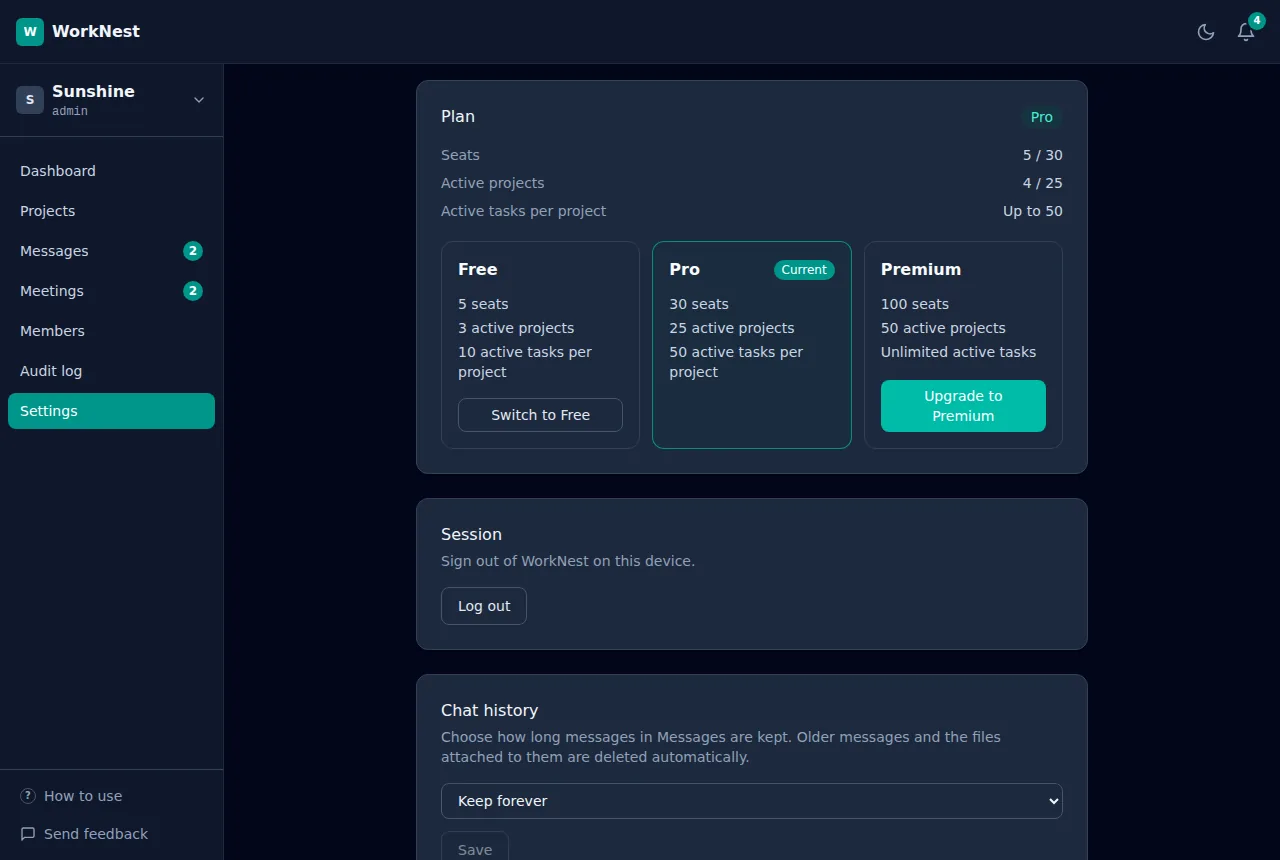
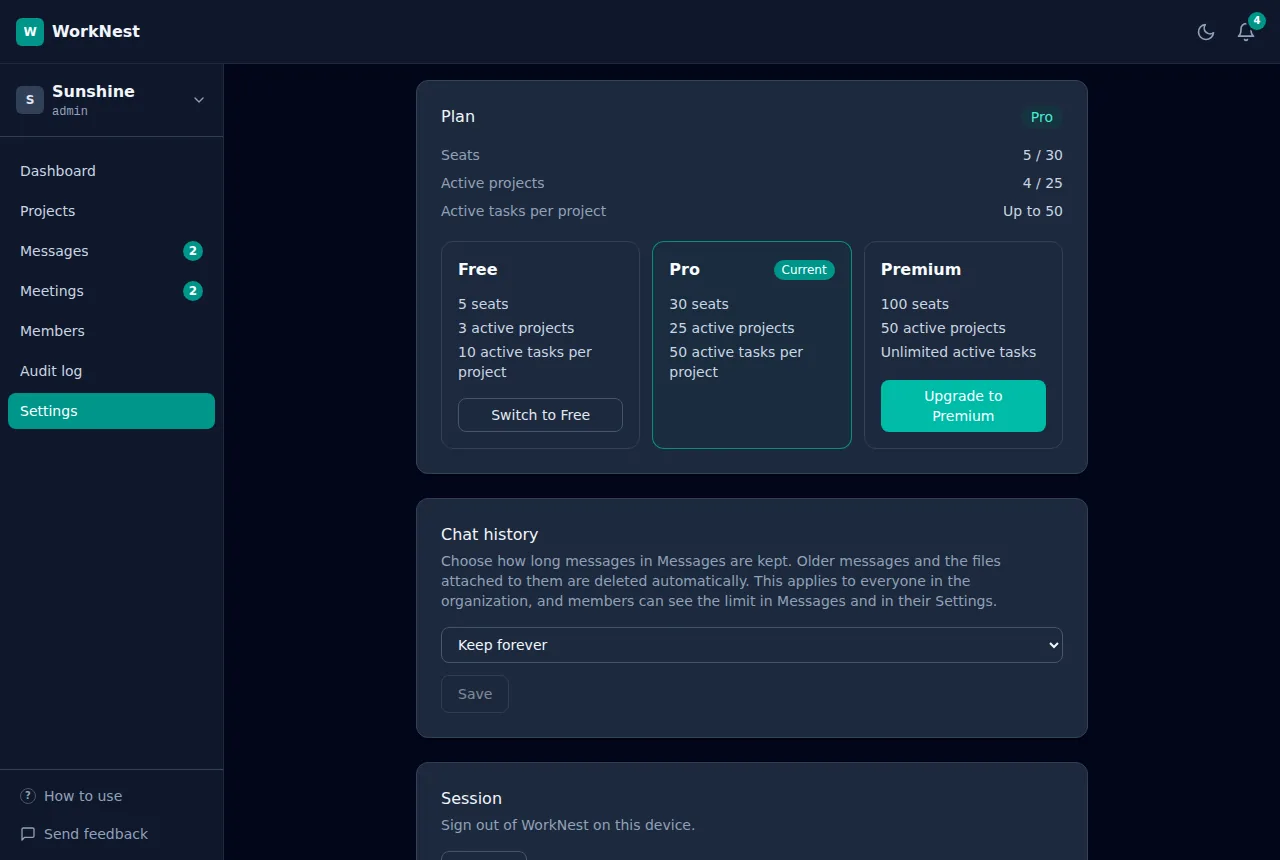
Show every member how long chat history is kept, and put Chat history above Session in Settings
Members now see a read-only Chat history card in Settings and a short note at the bottom of the chat list when an admin has set a limit. The admin card says the choice applies to everyone. Chat history now sits above Session. The plans screenshot was retaken and the guide and README mention the visible limit.

Changed region(s): [[0.3125, 0.6047, 0.875, 0.786], [0.3125, 0.8163, 0.875, 0.9977]]

diff --git a/web/src/features/settings/ChatRetentionCard.tsx b/web/src/features/settings/ChatRetentionCard.tsx
@@ -7,6 +7,7 @@ import { inputControlStyles } from "@/components/ui/Field";
 import { parseApiError } from "@/lib/apiError";
 import { useUpdateOrg } from "@/features/org/queries";
 import type { Organization } from "@/features/org/api";
+import { retentionPhrase } from "./retention";
 
 type Retention = "forever" | "90" | "180" | "365";
 
@@ -20,14 +21,17 @@ const OPTIONS: { value: Retention; label: string }[] = [
 const toValue = (days: number | null): Retention =>
   days === null ? "forever" : (String(days) as Retention);
 
-// Admins decide how long chat history is kept. Nothing is deleted unless a
-// limit is chosen here.
+// Admins decide how long chat history is kept, for everyone in the
+// organization. Nothing is deleted unless a limit is chosen here. Members see
+// the same card as a plain statement of what the admins chose.
 export function ChatRetentionCard({
   orgId,
   org,
+  canEdit,
 }: {
   orgId: string;
   org: Organization;
+  canEdit: boolean;
 }) {
   const update = useUpdateOrg(orgId);
   const saved = toValue(org.chatRetentionDays ?? null);
@@ -59,14 +63,58 @@ export function ChatRetentionCard({
 
   const save = () => (choice === "forever" ? apply() : setConfirming(true));
 
+  if (!canEdit) {
+    const limited = org.chatRetentionDays != null;
+    return (
+      <Card id="chat-history" className="scroll-mt-24">
+        <h2 className="font-medium text-slate-800 dark:text-slate-100">
+          Chat history
+        </h2>
+        <p className="mt-1 text-sm text-slate-500 dark:text-slate-400">
+          {limited
+            ? "Older messages and the files attached to them are deleted automatically, for everyone in the organization."
+            : "Messages are not deleted automatically."}
+        </p>
+        <div className="mt-4 flex items-center gap-3 rounded-lg border border-slate-200 bg-slate-50 px-4 py-3 dark:border-slate-700 dark:bg-slate-800/60">
+          <svg
+            viewBox="0 0 24 24"
+            fill="none"
+            stroke="currentColor"
+            strokeWidth={2}
+            strokeLinecap="round"
+            strokeLinejoin="round"
+            className="h-5 w-5 shrink-0 text-teal-600 dark:text-teal-400"
+            aria-hidden="true"
+          >
+            <circle cx="12" cy="12" r="9" />
+            <path d="M12 7v5l3 2" />
+          </svg>
+          <div className="min-w-0">
+            <p className="text-sm text-slate-600 dark:text-slate-300">
+              Messages are kept{" "}
+              {limited
+                ? `for ${retentionPhrase(org.chatRetentionDays)}`
+                : retentionPhrase(null)}
+            </p>
+            <p className="text-xs text-slate-500 dark:text-slate-400">
+              Set by your organization's admins. Only an admin can change it.
+            </p>
+          </div>
+        </div>
+      </Card>
+    );
+  }
+
   return (
-    <Card>
+    <Card id="chat-history" className="scroll-mt-24">
       <h2 className="font-medium text-slate-800 dark:text-slate-100">
         Chat history
       </h2>
       <p className="mt-1 text-sm text-slate-500 dark:text-slate-400">
         Choose how long messages in Messages are kept. Older messages and the
-        files attached to them are deleted automatically.
+        files attached to them are deleted automatically. This applies to
+        everyone in the organization, and members can see the limit in Messages
+        and in their Settings.
       </p>
       <div className="mt-4 flex flex-wrap items-center gap-3">
         <label className="sr-only" htmlFor="chat-retention">

diff --git a/web/src/features/chat/RetentionNote.tsx b/web/src/features/chat/RetentionNote.tsx
@@ -1,0 +1,42 @@
+import { Link } from "react-router";
+import { useOrgDetails } from "@/features/org/queries";
+import { retentionPhrase } from "@/features/settings/retention";
+
+// A quiet line at the bottom of the chat list telling everyone how long
+// messages are kept. It only appears when an admin has set a limit, because
+// that is the case that affects what people can look back on.
+export function RetentionNote({ orgId }: { orgId: string }) {
+  const { data: org } = useOrgDetails(orgId);
+  const days = org?.chatRetentionDays;
+  if (!days) return null;
+
+  return (
+    <Link
+      to={`/orgs/${orgId}/settings#chat-history`}
+      className="mx-2 mb-2 flex items-start gap-2.5 rounded-lg border border-slate-200 bg-slate-50 px-3 py-2.5 text-xs text-slate-600 hover:border-teal-300 hover:bg-teal-50/60 focus-visible:outline focus-visible:outline-2 focus-visible:outline-teal-600 dark:border-slate-700 dark:bg-slate-800/60 dark:text-slate-300 dark:hover:border-teal-700 dark:hover:bg-teal-950/30"
+    >
+      <svg
+        viewBox="0 0 24 24"
+        fill="none"
+        stroke="currentColor"
+        strokeWidth={2}
+        strokeLinecap="round"
+        strokeLinejoin="round"
+        className="mt-0.5 h-4 w-4 shrink-0 text-slate-400"
+        aria-hidden="true"
+      >
+        <circle cx="12" cy="12" r="9" />
+        <path d="M12 7v5l3 2" />
+      </svg>
+      <span className="min-w-0">
+        <span className="block text-slate-700 dark:text-slate-200">
+          Messages are kept for {retentionPhrase(days)}
+        </span>
+        <span className="block text-slate-500 dark:text-slate-400">
+          Set by your organization's admins. Older messages and their files are
+          deleted for everyone.
+        </span>
+      </span>
+    </Link>
+  );
+}

diff --git a/web/src/features/settings/SettingsPage.tsx b/web/src/features/settings/SettingsPage.tsx
@@ -1,4 +1,5 @@
-import { useId, useRef, useState } from "react";
+import { useEffect, useId, useRef, useState } from "react";
+import { useLocation } from "react-router";
 import { useController, useForm } from "react-hook-form";
 import { zodResolver } from "@hookform/resolvers/zod";
 import { z } from "zod";
@@ -714,6 +715,13 @@ export function SettingsPage() {
   const [formError, setFormError] = useState<string | null>(null);
 
   const { data: org, isPending, isError } = useOrgDetails(orgId);
+
+  // A link from Messages lands on the chat history card.
+  const { hash } = useLocation();
+  useEffect(() => {
+    if (hash !== "#chat-history" || !org) return;
+    document.getElementById("chat-history")?.scrollIntoView({ block: "start" });
+  }, [hash, org]);
   const updateOrg = useUpdateOrg(orgId);
   const changePlan = useChangePlan(orgId);
 
@@ -982,6 +990,10 @@ export function SettingsPage() {
           )}
         </Card>
 
+        {org && (
+          <ChatRetentionCard orgId={orgId} org={org} canEdit={canUpdateOrg} />
+        )}
+
         <Card>
           <h2 className="font-medium text-slate-800 dark:text-slate-100">
             Session
@@ -998,8 +1010,6 @@ export function SettingsPage() {
             {isLoggingOut ? "Logging out…" : "Log out"}
           </Button>
         </Card>
-
-        {org && canUpdateOrg && <ChatRetentionCard orgId={orgId} org={org} />}
 
         {org && <LeaveOrganizationCard orgId={orgId} orgName={org.name} />}
 

diff --git a/web/src/pages/HowToUse.tsx b/web/src/pages/HowToUse.tsx
@@ -114,7 +114,7 @@ const STEPS: GuideStep[] = [
     id: "plan",
     title: "Manage your plan and chat history",
     description:
-      "Open Settings to compare plans and check usage. Free includes 5 seats, 3 active projects and 10 active tasks per project. Pro includes 30 seats, 25 active projects and 50 active tasks per project. Premium includes 100 seats, 50 active projects and unlimited active tasks. Only admins can change plans, and a downgrade is available once your usage fits the lower limits. Admins also choose how long chat history is kept, from forever down to 90 days.",
+      "Open Settings to compare plans and check usage. Free includes 5 seats, 3 active projects and 10 active tasks per project. Pro includes 30 seats, 25 active projects and 50 active tasks per project. Premium includes 100 seats, 50 active projects and unlimited active tasks. Only admins can change plans, and a downgrade is available once your usage fits the lower limits. Admins also choose how long chat history is kept, from forever down to 90 days. The choice applies to the whole organization, and every member can see it in Settings and at the bottom of their chat list.",
     screens: placement("guide.plan"),
   },
 ];

diff --git a/web/src/features/chat/ConversationList.tsx b/web/src/features/chat/ConversationList.tsx
@@ -6,6 +6,7 @@ import { inputControlStyles } from "@/components/ui/Field";
 import type { Conversation } from "./api";
 import { Avatar } from "@/components/ui/Avatar";
 import { AlertSettings } from "./AlertSettings";
+import { RetentionNote } from "./RetentionNote";
 import { ConversationMenu } from "./ConversationMenu";
 import { menuItemsFor, type ConversationAction } from "./conversationMenuItems";
 import { useConversationActions, useMessageSearch } from "./queries";
@@ -474,6 +475,7 @@ export function ConversationList({
           </section>
         )}
       </div>
+      <RetentionNote orgId={orgId} />
     </div>
   );
 }

diff --git a/web/src/features/settings/retention.ts b/web/src/features/settings/retention.ts
@@ -1,0 +1,16 @@
+// How long an organization keeps chat messages, in words people can read.
+// null means messages are never deleted automatically.
+export function retentionPhrase(days: number | null | undefined): string {
+  switch (days) {
+    case 365:
+      return "1 year";
+    case 180:
+      return "6 months";
+    case 90:
+      return "90 days";
+    default:
+      return typeof days === "number"
+        ? `${days} days`
+        : "for as long as the organization exists";
+  }
+}

diff --git a/README.md b/README.md
@@ -282,7 +282,7 @@ Seat and project limits are enforced with atomic MongoDB updates (`$expr` condit
 - **Dashboard:** tasks by status and priority, top assignees, overdue tasks, and plan usage for admins and managers. Project usage shows active projects only. The charts cover the last 7 to 90 days, all time or a custom date range, grouped by week or month for long spans, and counts days in your own time zone. Chart numbers show on double-click or double-tap, so a stray tap doesn't pop them up.
 - **Messages:** anyone in an org can message anyone else in it, one to one or in a group. A chat is only visible to the people in it, and that includes org admins. Messages arrive live over Socket.IO, with typing indicators, online dots, unread counts and "Seen" receipts. You can reply, react with an emoji, @mention people, edit your own message for 10 minutes after sending it, and delete it whenever you like (it leaves a "This message was deleted" note). Group admins can rename the group and add or remove people, and anyone can leave. You can mute a chat (it stays quiet unless someone mentions you), search every chat you're in, and start a meeting from any chat. Press and hold a chat in the list (or right-click it) to mute it, mark it read or unread, see group details or delete it. Deleting a conversation clears it for you only, and a new message brings it back with just the new messages. The tab title and icon show your unread count, and desktop notifications and a soft sound are available if you turn them on. If the live connection drops, the app falls back to refreshing every few seconds.
 - **Files in chat:** images and files are uploaded straight from the browser to Cloudinary as private files. There is no public link: the API checks that you are still in the organization and the conversation every time you open one, and the links it hands out stop working after about 10 to 20 minutes. Files are limited to 10 MB, checked on the server as well as in the browser. Drag them onto a chat or paste them, and click a picture to see it larger. The feature switches itself off if Cloudinary isn't set up.
-- **Chat history:** admins can choose how long messages are kept (forever by default, or 1 year, 6 months or 90 days). Older messages and their files are deleted automatically once a limit is set.
+- **Chat history:** admins can choose how long messages are kept (forever by default, or 1 year, 6 months or 90 days). Older messages and their files are deleted automatically once a limit is set. The limit applies to everyone, and every member can see it in Settings and at the bottom of the chat list.
 - **Meetings:** schedule a meeting with a time, agenda, location, a join link (paste one, or create a free Jitsi room) and the people you want there. Only the organizer and the people invited can see it. Meetings can repeat daily, weekly or monthly, and can be linked to a project or a task (the task's Meetings tab and the project's Meetings button show them). Invitees reply Accept, Maybe or Decline, or suggest another time, which the organizer can accept or turn down. People are notified when a meeting is created, changed or cancelled, and get a reminder 15 minutes before it starts. Moving the time asks everyone to reply again. There's an upcoming and past list, a month calendar, a warning when you double-book yourself, "Meet now" for an instant call, and an "Add to calendar" download.
 - **When someone leaves:** if a member is removed or leaves an org, they're taken out of its group chats and meeting invites. If they organize upcoming meetings, the admin removing them (or they, when leaving) picks between cancelling those meetings and handing them to someone who stays. One to one chats stay for the other person but can't be continued.
 - **Audit log:** every change to orgs, members, invites, projects, tasks and plans is written in the same transaction as the change, so an action that rolls back never leaves an entry behind. The UI shows plain-language rows with filters.
